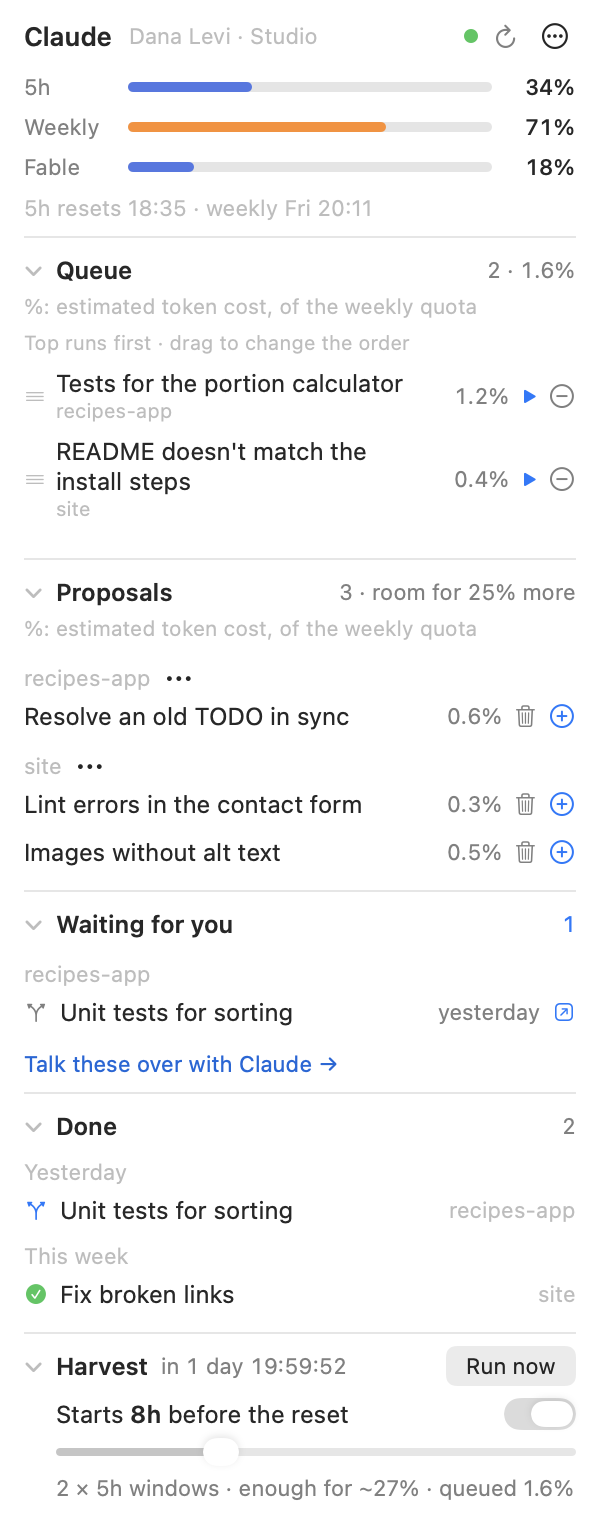
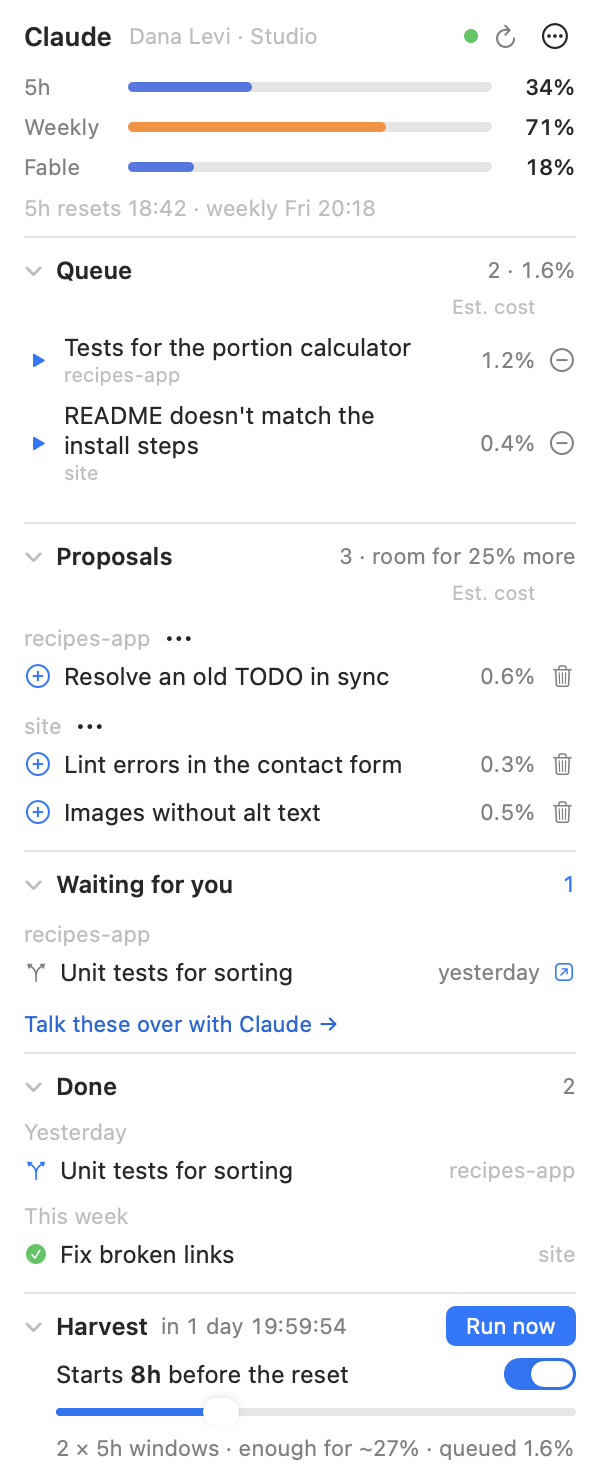
Queue and proposal rows: the action before the text, the removal at the end, no grip
- ▶ (run now) in the queue and ⊕ (queue it) for a proposal sit before the
  title; ⊖ and the trash can stay at the far end, so adding and removing are
  never side by side.
- The queue shows each task's project under its title, always.
- A row is dragged by grabbing it anywhere: the ≡ grip and the drag hint line
  are gone.
- The long percentage explanation is now a two-word column header over the
  figures ("עלות משוערת" / "Est. cost"); the tooltip keeps the details.

diff --git a/QuotaHarvest.swift b/QuotaHarvest.swift
@@ -1305,8 +1305,6 @@ struct PanelView: View {
             EmptyLine(text: L("התור ריק — ⊕ ליד הצעה מכניס אותה לתור", "The queue is empty — ⊕ next to a proposal puts it in"))
         } else {
             PctCaption()
-            Text(L("למעלה רצה ראשונה · גרור כדי לשנות את הסדר", "Top runs first · drag to change the order"))
-                .font(.system(size: 10)).foregroundStyle(.tertiary)
             if m.listing.queue.count > 8 {
                 ScrollView { orderedQueue }.frame(height: 220)
             } else {
@@ -1321,18 +1319,13 @@ struct PanelView: View {
         }
     }
 
-    /// The queue as one list in the order it runs. Each row can be dragged (by the grip, or anywhere
-    /// on it) and dropped on another row to land above it, or below the last row to go last.
+    /// The queue as one list in the order it runs, each task with its project. A row can be grabbed
+    /// anywhere and dropped on another row to land above it, or below the last row to go last.
     var orderedQueue: some View {
-        let manyProjects = Set(m.listing.queue.map(\.project)).count > 1
-        return VStack(alignment: .leading, spacing: 0) {
+        VStack(alignment: .leading, spacing: 0) {
             ForEach(m.listing.queue) { t in
-                HStack(spacing: 5) {
-                    Image(systemName: "line.3.horizontal").font(.system(size: 9)).foregroundStyle(.tertiary)
-                        .help(L("גרור כדי לשנות את סדר הביצוע", "Drag to change the order they run in"))
-                    TaskRow(task: t, queued: true, onRun: { m.actions?.runOne(t) },
-                            onToggle: { m.actions?.setQueued(t, $0) }, showProject: manyProjects)
-                }
+                TaskRow(task: t, queued: true, onRun: { m.actions?.runOne(t) },
+                        onToggle: { m.actions?.setQueued(t, $0) }, showProject: true)
                 .contentShape(Rectangle())
                 .overlay(alignment: .top) { dropLine(m.queueDropTarget == t.id) }
                 .draggable(t.id) {
@@ -1813,13 +1806,14 @@ struct HoverHighlight: ViewModifier {
 }
 
 /// What the percentage next to a task means, above the queue and the proposals.
+/// The header of the percentage column — two words; the tooltip on each figure says the rest.
 struct PctCaption: View {
     var body: some View {
-        Text(L("האחוז: עלות משוערת בטוקנים, מתוך המכסה השבועית",
-               "%: estimated token cost, of the weekly quota"))
-            .font(.system(size: 10.5)).foregroundStyle(.tertiary)
-            .fixedSize(horizontal: false, vertical: true)
-            .padding(.bottom, 2)
+        HStack(spacing: 6) {
+            Spacer(minLength: 0)
+            Text(L("עלות משוערת", "Est. cost")).font(.system(size: 10)).foregroundStyle(.tertiary)
+            Color.clear.frame(width: TaskRow.iconColumn, height: 1)
+        }
     }
 }
 
@@ -1840,8 +1834,24 @@ struct TaskRow: View {
     /// The project's name under the title — the queue shows one list across projects.
     var showProject = false
 
+    /// Width of the icon columns at each end of a row — `PctCaption` lines up with them.
+    static let iconColumn: CGFloat = 14
+
     var body: some View {
         HStack(spacing: 6) {
+            // The row's action sits before the text — ▶ run it now (queue), ⊕ queue it (proposals);
+            // taking it away sits at the far end — ⊖ out of the queue, the trash can for a proposal.
+            if queued, let onRun = onRun {
+                Button(action: onRun) { Image(systemName: "play.fill").font(.system(size: 8)) }
+                    .buttonStyle(.plain).foregroundStyle(Color.accentColor)
+                    .frame(width: Self.iconColumn)
+                    .help(L("הרץ עכשיו רק את המשימה הזו", "Run just this task now"))
+            } else if !queued {
+                Button { onToggle(true) } label: { Image(systemName: "plus.circle").font(.system(size: 12)) }
+                    .buttonStyle(.plain).foregroundStyle(Color.accentColor)
+                    .frame(width: Self.iconColumn)
+                    .help(L("הכנס לתור — תרוץ בקציר הבא", "Put it in the queue — it runs in the next harvest"))
+            }
             VStack(alignment: .leading, spacing: 0) {
                 Text(task.title).lineLimit(2).truncationMode(.tail).fixedSize(horizontal: false, vertical: true)
                 if showProject {
@@ -1852,24 +1862,17 @@ struct TaskRow: View {
             Text(pctText(task.pct)).font(.system(size: 11)).monospacedDigit().foregroundStyle(.secondary)
                 .help(L("עלות משוערת: כ־\(task.tokens / 1000) אלף טוקנים, \(pctText(task.pct)) מהמכסה השבועית",
                         "Estimated cost: ~\(task.tokens / 1000)K tokens, \(pctText(task.pct)) of the weekly quota"))
-            if let onRun = onRun {
-                Button(action: onRun) { Image(systemName: "play.fill").font(.system(size: 8)) }
-                    .buttonStyle(.plain).foregroundStyle(Color.accentColor)
-                    .help(L("הרץ עכשיו רק את המשימה הזו", "Run just this task now"))
-            }
-            if let onRemove = onRemove {
+            if queued {
+                Button { onToggle(false) } label: { Image(systemName: "minus.circle").font(.system(size: 12)) }
+                    .buttonStyle(.plain).foregroundStyle(.secondary)
+                    .frame(width: Self.iconColumn)
+                    .help(L("הוצא מהתור — חוזרת להצעות", "Take it out of the queue — back to the proposals"))
+            } else if let onRemove = onRemove {
                 Button(action: onRemove) { Image(systemName: "trash").font(.system(size: 10)) }
                     .buttonStyle(.plain).foregroundStyle(.secondary)
+                    .frame(width: Self.iconColumn)
                     .help(L("מחק את ההצעה — היא לא תוצע שוב", "Delete this proposal — it won't be proposed again"))
             }
-            // Queue and unqueue with one icon each: ⊕ puts a proposal in the queue, ⊖ takes a task out.
-            Button { onToggle(!queued) } label: {
-                Image(systemName: queued ? "minus.circle" : "plus.circle").font(.system(size: 12))
-            }
-            .buttonStyle(.plain)
-            .foregroundStyle(queued ? AnyShapeStyle(.secondary) : AnyShapeStyle(Color.accentColor))
-            .help(queued ? L("הוצא מהתור — חוזרת להצעות", "Take it out of the queue — back to the proposals")
-                  : L("הכנס לתור — תרוץ בקציר הבא", "Put it in the queue — it runs in the next harvest"))
         }
         .padding(.vertical, 3)
         .frame(minHeight: 24)
@@ -1957,7 +1960,7 @@ struct HelpView: View {
             "**▶** מריץ רק את המשימה הזאת, עכשיו. **⊖** מוציא אותה מהתור ומחזיר אותה להצעות — היא לא תרוץ עד שתכניס אותה שוב.",
             "בכותרת: כמה משימות, וכמה אחוזים כולן יחד.",
             "**הסדר ברשימה הוא סדר הביצוע** — העליונה רצה ראשונה. בלי התערבות שלך הסדר הוא לפי חשיבות, ובאותה חשיבות הגדולה קודם.",
-            "**גרירה:** תופסים משימה (או את הידית ≡ שלידה) ומשחררים על משימה אחרת — היא נוחתת מעליה; מתחת לאחרונה — היא עוברת לסוף. **\"חזרה לסדר האוטומטי\"** מבטל את מה שגררת.",
+            "**גרירה:** תופסים משימה ומשחררים על משימה אחרת — היא נוחתת מעליה; מתחת לאחרונה — היא עוברת לסוף. **\"חזרה לסדר האוטומטי\"** מבטל את מה שגררת.",
         ]),
         ("הצעות", [
             "משימות שעוד לא אישרת: רעיונות שסוכן רשם כשעבד לבד, או משימות שהשהית. הן לא ירוצו.",
@@ -2020,7 +2023,7 @@ struct HelpView: View {
             "**▶** runs just this task, now. **⊖** takes it out of the queue, back to the proposals — it won't run until you put it back.",
             "In the header: how many tasks, and how many percent they come to together.",
             "**The list's order is the order they run in** — the top one runs first. Left alone, it's by priority, and within a priority the bigger task first.",
-            "**Dragging:** grab a task (or the ≡ grip next to it) and drop it on another one — it lands above it; below the last one — it goes last. **\"Back to the automatic order\"** undoes what you dragged.",
+            "**Dragging:** grab a task and drop it on another one — it lands above it; below the last one — it goes last. **\"Back to the automatic order\"** undoes what you dragged.",
         ]),
         ("Proposals", [
             "Tasks you haven't approved yet: ideas an agent noted while working on its own, or tasks you paused. They don't run.",

diff --git a/SPEC.md b/SPEC.md
@@ -93,12 +93,15 @@ BACKLOG.md itself. Files under `~/.claude/harvest/`, one writer each:
 Panel sections (from `harvest.py list`, refreshed every 30 s while the panel is
 open or a harvest runs, else every 2 min):
 
+- A task row: the action before the text (▶ run it now in the queue, ⊕ put it in the queue
+  for a proposal), then the title, the estimated cost, and the removal at the far end (⊖
+  out of the queue, the trash can for a proposal). Above the rows, a two-word header over
+  the cost column ("עלות משוערת" / "Est. cost"); each figure's tooltip has the tokens.
 - **בתור** — `open` tasks as one list in the order they run (`ordered_queue` in the
   engine, used by both `list` and `plan`): first those the owner placed by dragging, in
   their order (`queue-order.json`, `claude-harvest queue-order <key>…`, keys
   `<project>::<title>`), then the rest by priority and, within a priority, the bigger
-  estimate first. Rows have a ≡ grip, the project's name under the title when the queue
-  spans projects, and can be dragged (`.draggable` / `.dropDestination`, the target shown by
+  estimate first. Each row shows its project under the title and can be grabbed anywhere and dragged (`.draggable` / `.dropDestination`, the target shown by
   an accent line — `WidgetModel.queueDropTarget`) onto another row to land above it, or
   below the last to go last; the whole new order is sent at once. "↺ Back to the automatic
   order" (shown while any task is `placed`) runs `queue-order --reset`. Refused in
